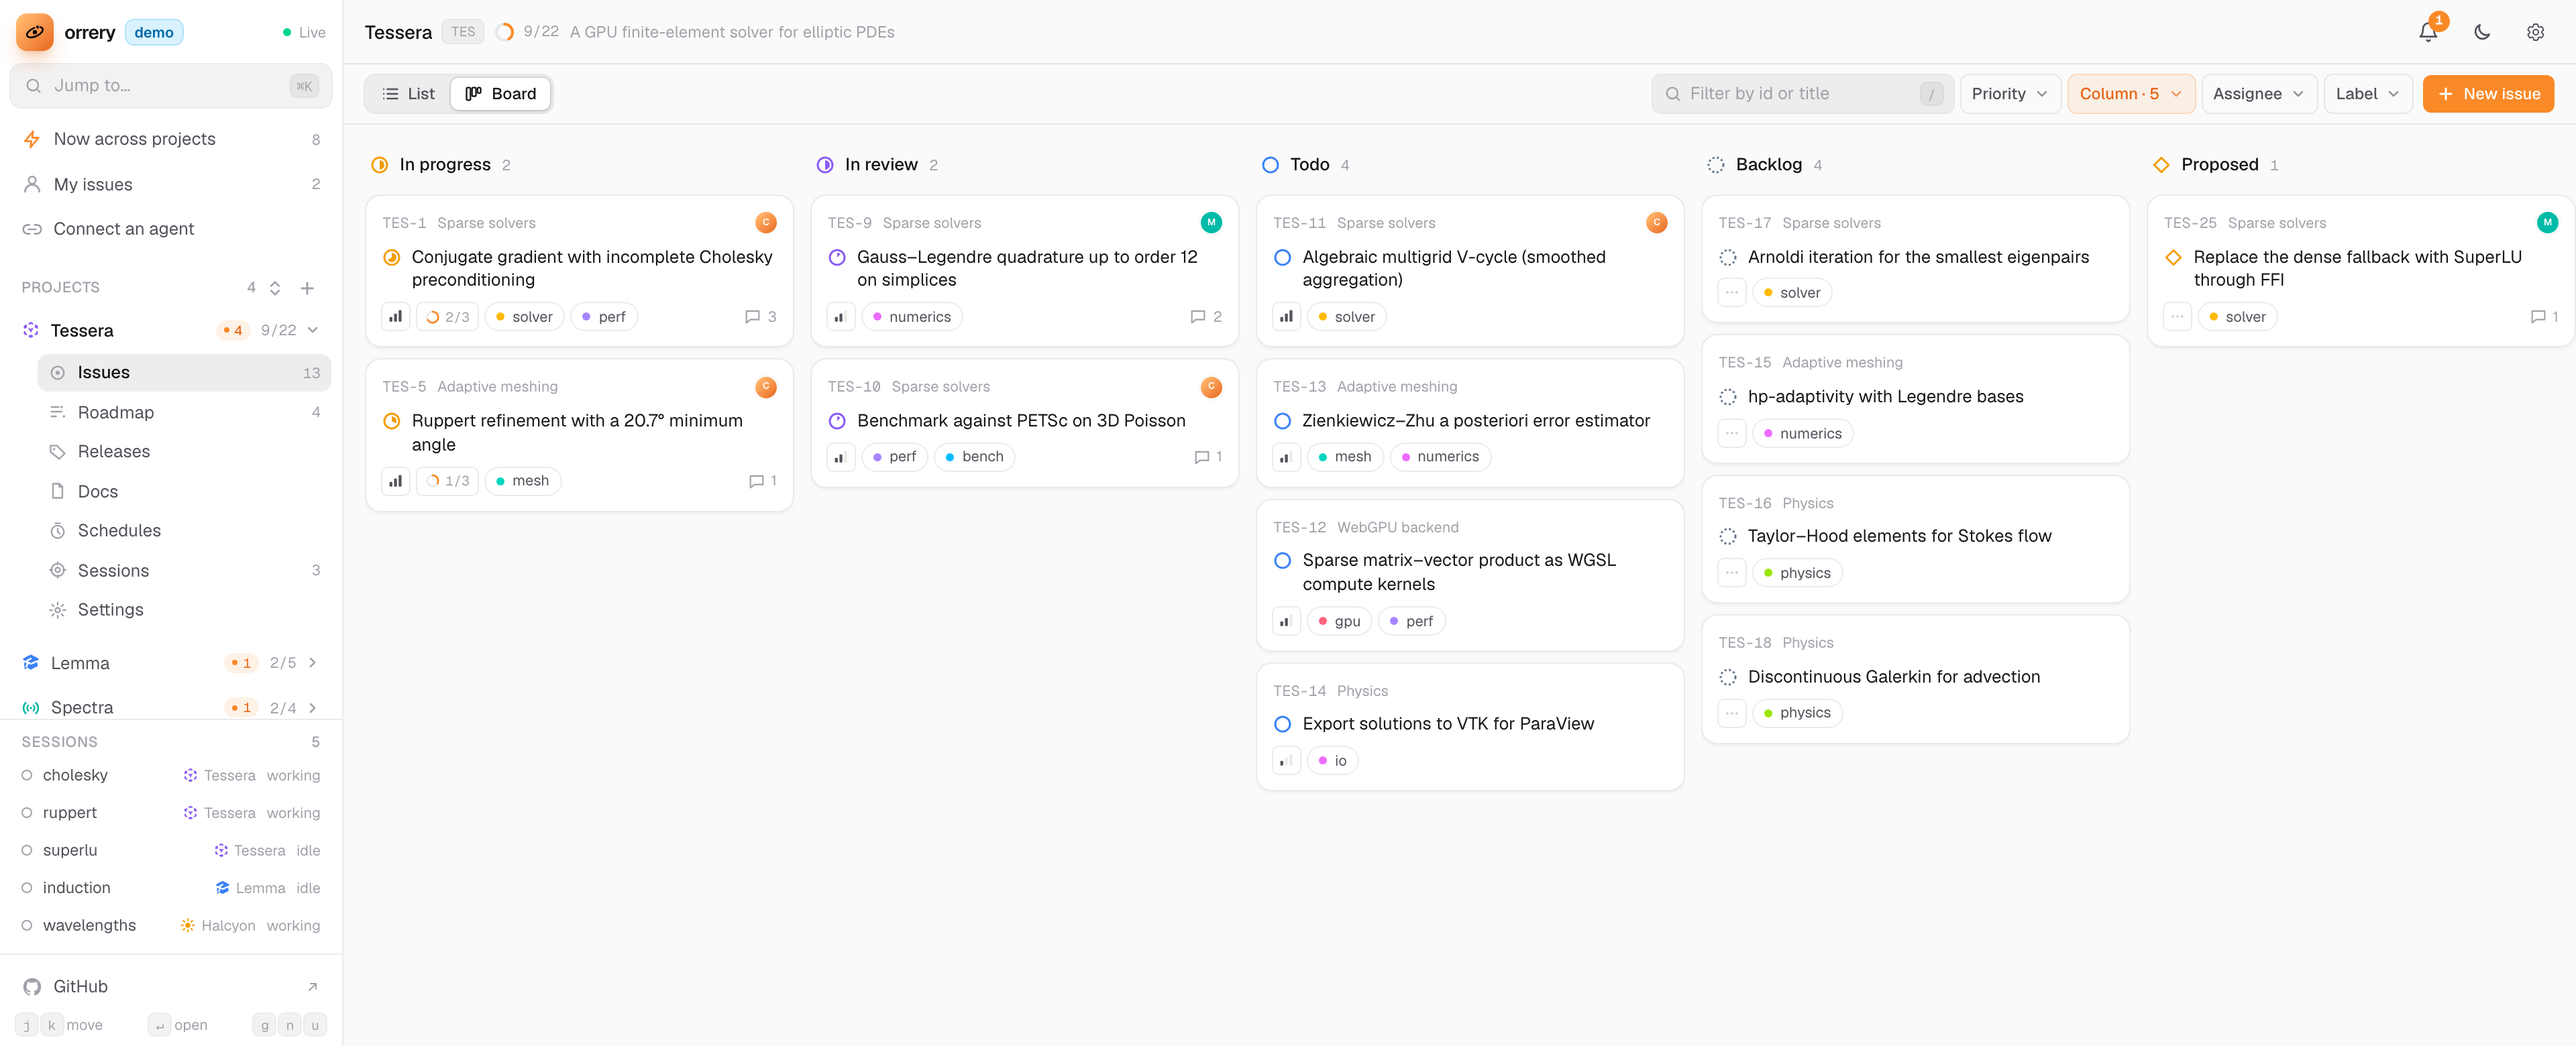
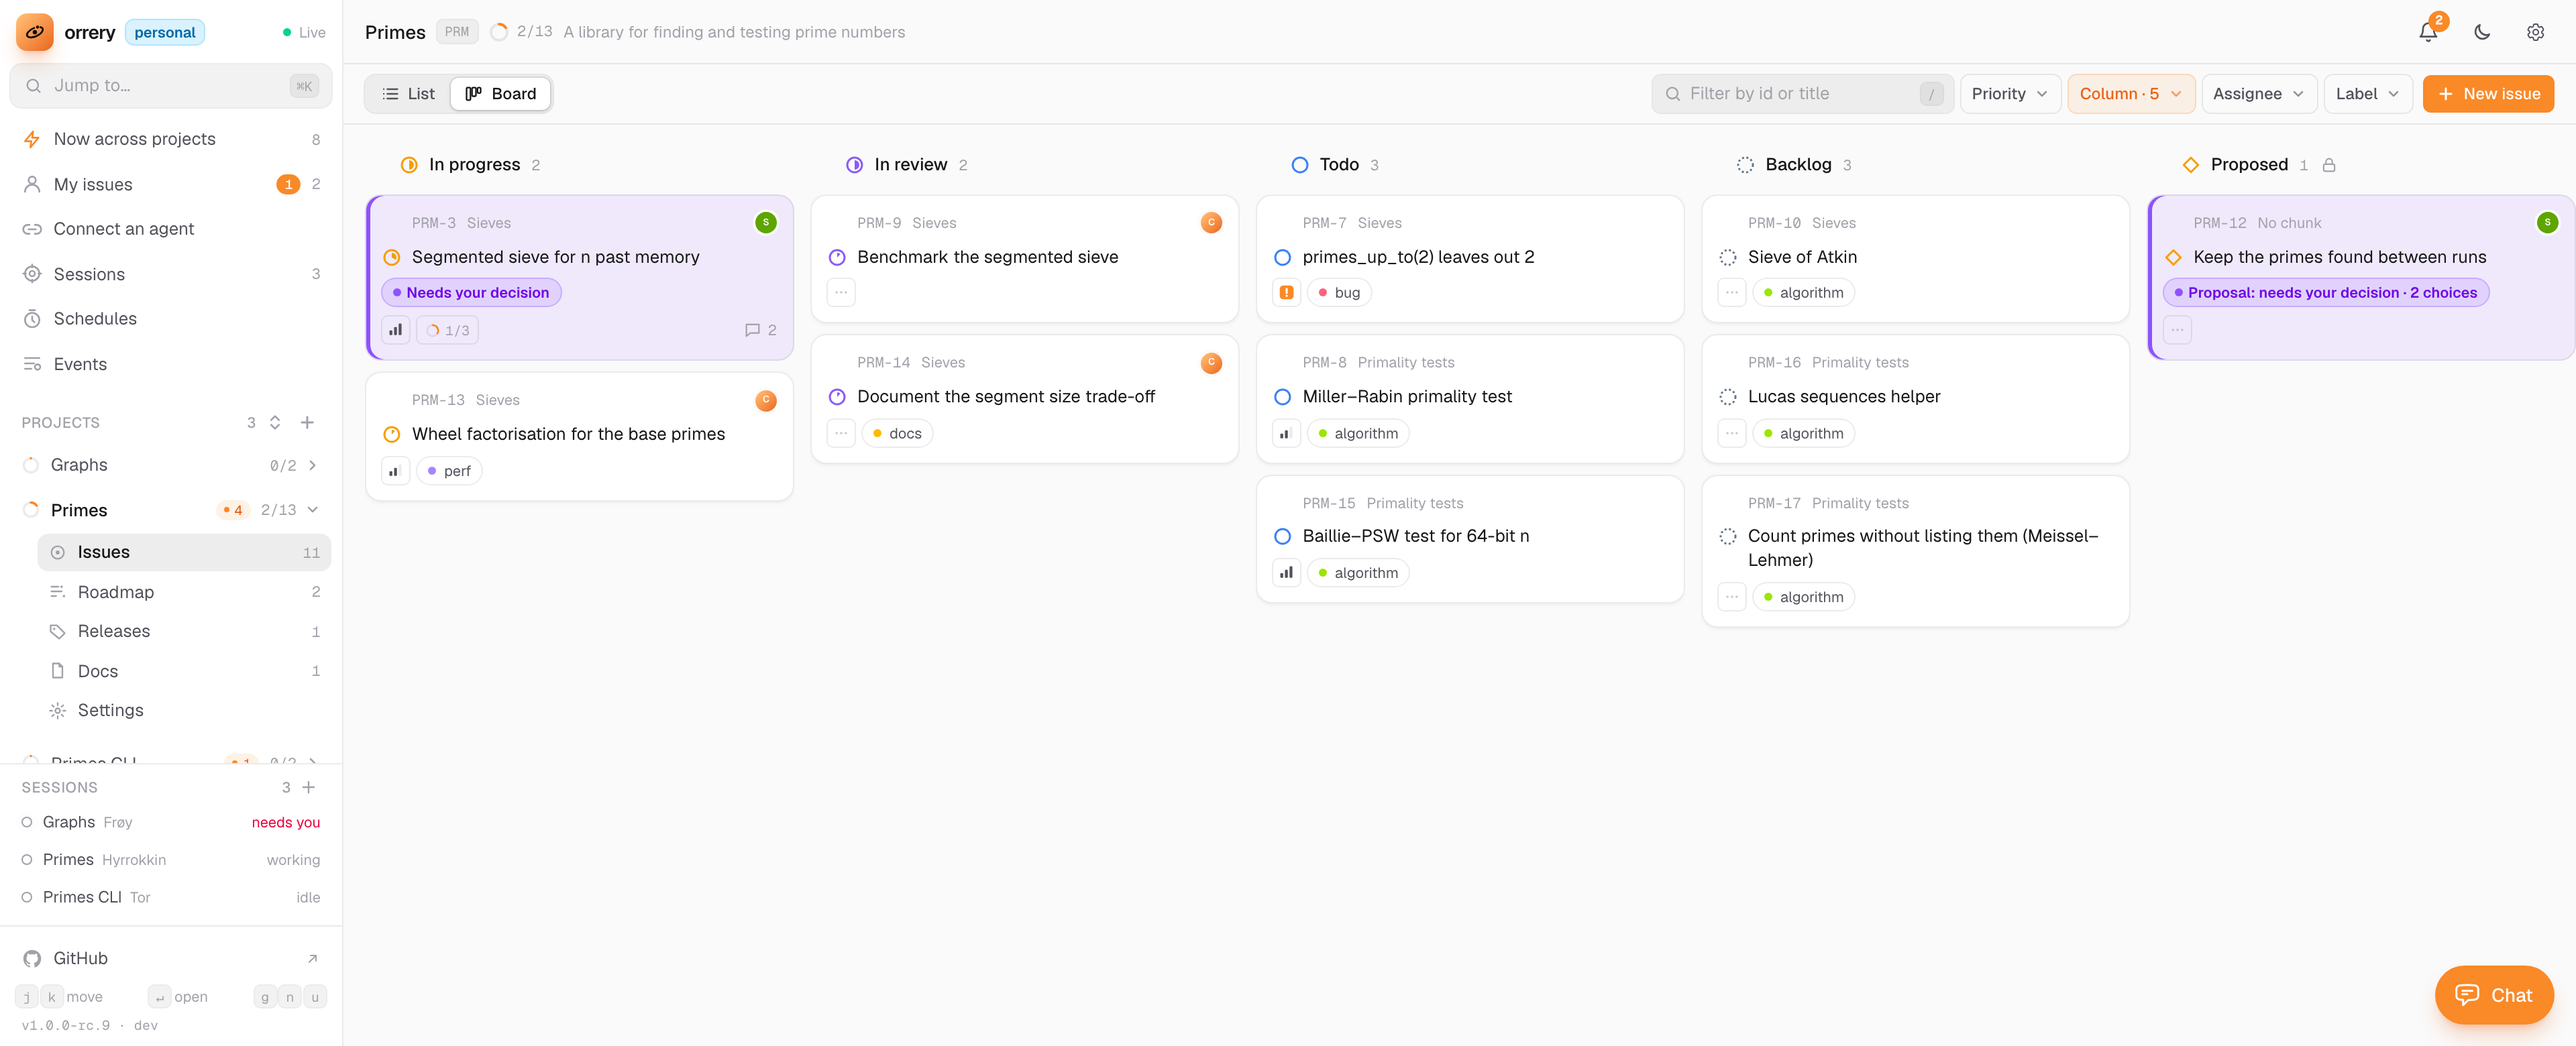
docs(orrery): catch the readme and docs up with rc.9
New screenshots from the seeded demo (board, an issue, sessions, the
chat and the event log), the chat and presets in the features, how the
chat is held back in SECURITY.md, and how to update in running.md.

diff --git a/README.md b/README.md
@@ -4,7 +4,7 @@ A self-hosted roadmap board for working with Claude Code sessions. Each project 
 (milestones), releases and docs. Sessions read and update them through an HTTP API or MCP tools, and
 the owner directs sessions from the board. It runs locally, in Docker, on SQLite or Postgres.
 
-<img alt="A project's board in Orrery: issues in In progress, In review, Todo, Backlog and Proposed columns, with sub-issue progress, labels, assignees and comment counts, and the Claude sessions working on them in the sidebar" src="docs/images/board-light.png">
+<img alt="A project's board in orrery: issues in In progress, In review, Todo, Backlog and Proposed columns, one waiting on the owner's decision and a proposal with choices, and the Claude sessions in the sidebar, one needing the owner" src="docs/images/board-light.png">
 
 ## Features
 
@@ -14,20 +14,37 @@ the owner directs sessions from the board. It runs locally, in Docker, on SQLite
   `/llms.txt`. Agents can propose issues for the owner to approve, and ask for a decision or feedback.
 - **Directing sessions:** through a Claude Code channel, the owner can ask a session to focus on an
   issue, work through a chunk, or read a message. Hooks report whether each session is working, idle
-  or waiting. Only one session can work on an issue at a time.
+  or waiting. Only one session can work on an issue at a time, and its page shows who's on it.
 - **Starting sessions:** optionally, a launcher on the host starts Claude sessions in tmux when work
   arrives with nobody listening, or when you start one, within limits set on the Sessions page.
+- **Presets:** standing words a session is started or messaged with. orrery ships Release, Security audit, Review and
+  Debug an error; you write the rest.
 - **Schedules:** at a time or when something happens (an issue moves, a release is frozen, an error), make an
   issue, send the sessions a message, or start a session.
+- **Chat:** Claude on every page, about the project you're on, with no terminal. It answers from the code, roadmap and
+  docs, files and edits issues, messages your sessions for you, and asks before it changes a setting.
 - **Releases:** versions with their issues and a drafted changelog, shared across a monorepo's projects
   if wanted.
 - **Docs:** Markdown pages for each project. Comments and descriptions accept images.
 - **Secrets:** API keys that agents use through Orrery's egress, without ever seeing the value.
-- **Event log:** Orrery's errors, and with Advanced on what it did, on an Events page that sessions can read too.
+- **Event log:** orrery's errors and each change to the roadmap, and with Advanced on what it did, kept on the machine,
+  on an Events page that sessions can read too.
 - **Storage:** one SQLite file or Postgres, both backed up automatically, picked when you first open it or moved to
   later from App settings. There are no accounts; the first name given becomes the owner.
 
-[Using Orrery](docs/using.md) describes each page, menu and shortcut.
+[Using Orrery](docs/using.md) describes each page, menu and shortcut. A session in any connected repo can ask the same
+through the `guide` tool.
+
+<table>
+<tr>
+<td width="50%"><img alt="An issue's page: its sub-issues, the session working on it beside its id and first in the Claude sessions panel, and a question waiting on the owner's decision" src="docs/images/issue-light.png"></td>
+<td width="50%"><img alt="The Sessions page: each project's Claude sessions with their state, folder and a message box, and what the working one is on now" src="docs/images/sessions-light.png"></td>
+</tr>
+<tr>
+<td><img alt="The chat pane open over a project's issue list, ready for a first question, with suggestions and new issues going to Todo" src="docs/images/chat-light.png"></td>
+<td><img alt="The Events page: the event log read like a console, a line each for settings changes, new issues, comments and channels connecting" src="docs/images/events-light.png"></td>
+</tr>
+</table>
 
 ## Quick start
 

diff --git a/SECURITY.md b/SECURITY.md
@@ -53,6 +53,23 @@ schedule's run never goes to your sessions. Instead:
 
 It can still read files in its folder with read-only commands, but it has no way to send them anywhere.
 
+### The chat
+
+The chat (the button in the corner) is a session started for you to talk to on the page. Its launcher starts it with
+`Read`, `Grep` and `Glob` and no Bash or edits, so it can't change the code or run anything, and without `egress`,
+`secrets`, `write_doc`, `resolve_event` or the tools that take up or finish work. orrery holds its writes to making issues (unstarted and
+unassigned), changing an issue's title, description, priority, labels, team tasks, chunk, release or parent (any other
+change is refused), commenting, and
+answering you. Two more go further, and you should know how far:
+
+- **Settings** it can only ask for: you see the change, from → to, and nothing is saved until you press **Allow**.
+  Secrets, the database, statuses and how sessions start aren't among them.
+- **Messages to your sessions** go out as yours, the owner's instructions in the sense below, marked as sent through
+  the chat (on the Sessions page, in the event log, and in what the session hears). It's told to send one only when you
+  ask in the chat, and to show you the text first (for several sessions, to wait for your go). That's its instructions,
+  not something orrery can check. The chat reads issues, comments, docs and the code, so a planted comment that talks
+  it into a message reaches your sessions in your voice. Keep that in mind before letting it read what others wrote.
+
 ## What only the owner writes
 
 Orrery has two tiers of text a session reads:
@@ -63,6 +80,8 @@ Orrery has two tiers of text a session reads:
   prompts and standing instructions (`PATCH /settings`), the signals that reach sessions, and **presets**,
   whose text a session is started with as "the owner gave this session more context … it holds for all
   its work". Only the owner writes these, and an agent gets a 403, **on purpose**.
+
+The chat's messages to sessions are the one exception, sent for you when you ask it to ([above](#the-chat)).
 
 Letting an agent write instructions would let one session write the orders for every later one. That
 includes a session talked into it by a planted comment, a fetched page or an egress response. It would
@@ -105,7 +124,7 @@ them: Orrery fills it into the request and sends it.
 
 ## Your data
 
-- Everything is in one SQLite file (`/data/orrery.db` in the container), not encrypted.
+- Everything is in one SQLite file (`/data/orrery.db` in the container), or in your Postgres, not encrypted.
 - The backups are copies of it. If `ORRERY_BACKUP` is a synced folder (iCloud Drive, Dropbox, …), your
   roadmaps leave the machine for that service.
 - The session hooks send Orrery each session's id, its name, its working folder, what it's doing and

diff --git a/docs/running.md b/docs/running.md
@@ -9,8 +9,17 @@ volume, with nothing to set up. The first time you open it, it asks your name: y
 and what you make no one else can delete. Your `Orrery-Actor` header is that name in lowercase snake
 case (`Sköll Fenrisson` is `skoll_fenrisson`); change it in App settings → You.
 
-After pulling a new version, `docker compose up -d --build` again; the database moves to the new
-schema by itself.
+## Updating
+
+1. **Back it up**: App settings → This orrery → **Back up now**, and keep a copy of that backup under a name of its own
+   until you're happy with the new version.
+2. **Rebuild**: `git pull` in this folder (or nothing, when `ORRERY_BUILD_CONTEXT` names a branch on GitHub), then
+   `docker compose up -d --build` again. The database moves to the new schema by itself.
+3. **The channel and the launcher** run from this folder on your machine, not in the container, so they're as new as
+   what it has checked out: keep it on the version you run (`git pull`). Sessions pick up the channel as they start.
+   The launcher only when it restarts, which stops the sessions it started, so do it when nothing's mid-work:
+   `node channel/orrery-launcher.mjs --install` again, or `launchctl kickstart -k gui/$(id -u)/orrery.launcher` on
+   a Mac. A launcher older than the server says so in the event log (`launcher.outdated`) when it's refused a launch.
 
 ## Settings
 

diff --git a/docs/connect.md b/docs/connect.md
@@ -145,7 +145,7 @@ are up, when you press **Stop** beside it (on the Sessions page, with **+30 min*
 (`ORRERY_PERMISSION_MODE` picks another). An untrusted schedule's session is the exception: it's locked down to
 `gh issue list`/`view` and the Orrery tools (see [SECURITY.md](../SECURITY.md#bringing-in-what-others-wrote)), so a
 launcher from before rc.9 needs restarting before it will take one. So is your [chat](API.md#chats): it gets `Read`,
-`Grep`, `Glob` and the Orrery tools that read, make issues, comment, message sessions and ask you to change a setting when you ask, and answers with its own `reply` tool, so a
+`Grep`, `Glob` and the Orrery tools that read, make issues, change an issue's fields, comment, message sessions and ask you to change a setting when you ask, and answers with its own `reply` tool, so a
 launcher that predates chats needs restarting before it will start one. The launcher answers the warning Claude Code shows for the channel
 flag; run the channel command by hand once in the repo first, to trust the folder, which it won't do for you.
 The limits are the Orrery's, on the Sessions page's Setup tab: how many at once counts every project's sessions together. The cap is time, not cost:

diff --git a/CONTRIBUTING.md b/CONTRIBUTING.md
@@ -15,7 +15,7 @@ or, without Docker, `pnpm install` and `pnpm dev` (Node 24.22.1, pnpm 10.14.0).
 
 ## Before a pull request
 
-- `pnpm test`, `pnpm typecheck` and `pnpm test:e2e` pass (CI runs the first two on every push and pull request, `test:e2e` on SQLite and Postgres on a release tag and when a pull request leaves draft, and builds the image; a release tag publishes only once they pass)
+- `pnpm test`, `pnpm typecheck`, `pnpm lint` and `pnpm test:e2e` pass (CI runs the first three on every pull request, `test:e2e` on SQLite and Postgres on a release tag and when a pull request leaves draft, and builds the image; a release tag publishes only once they pass)
 - A change to the database is a new step at the end of the migrations in `web/server/utils/db.ts` (and Postgres's in `web/server/utils/postgres.ts`); never edit one
 - A change to the API updates [docs/API.md](docs/API.md), which is also what agents read
 - A change to how something works updates the docs that describe it: `docs/` and the Orrery's project docs (a decision's `decision-*` doc too), which agents read before the code
